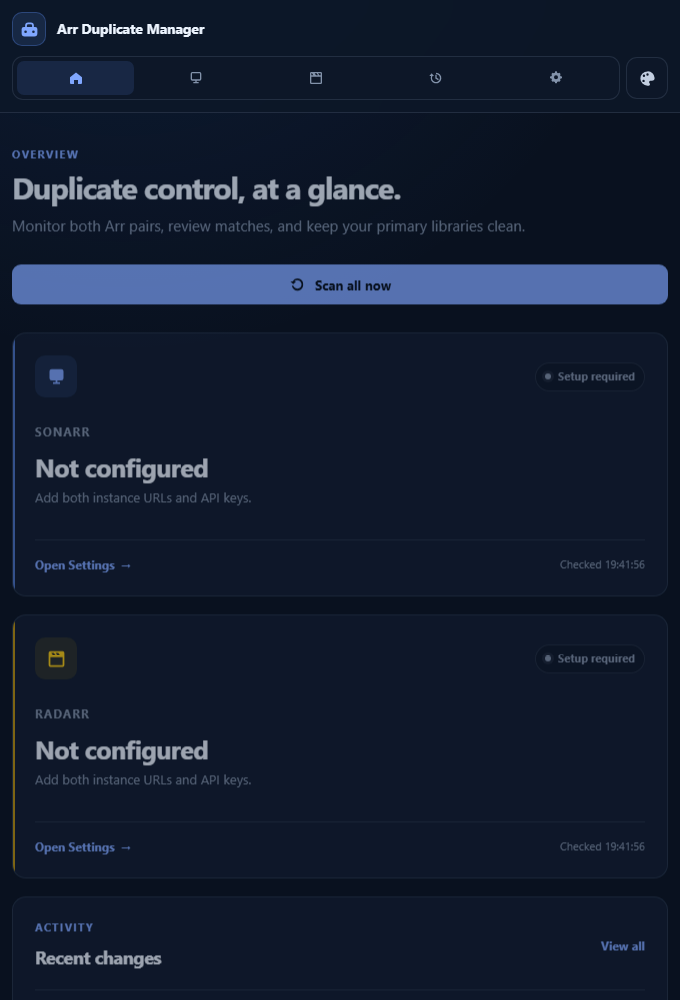
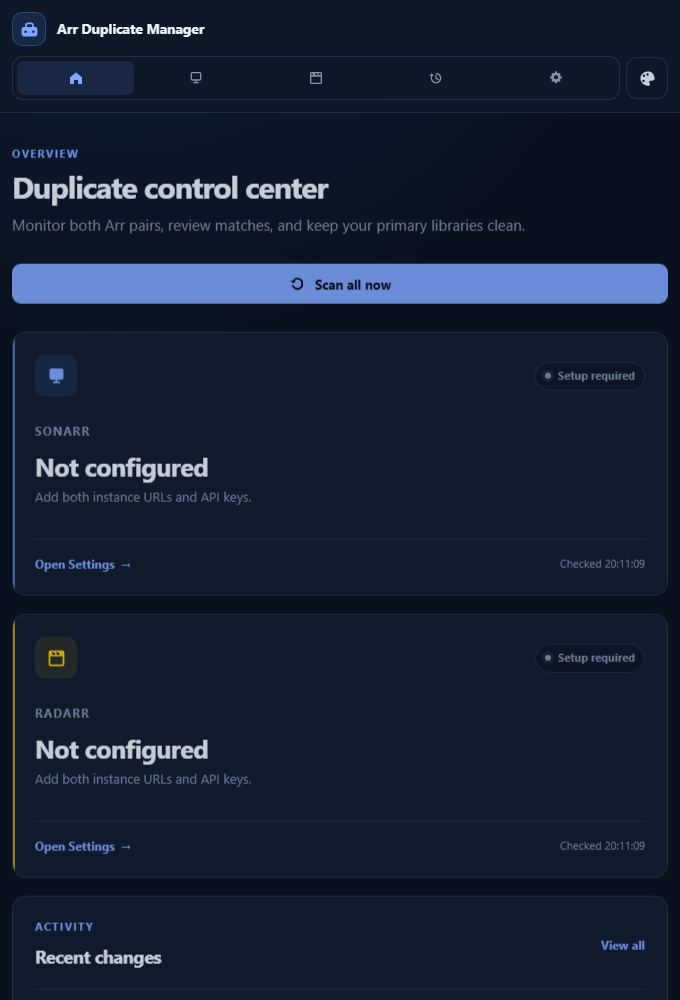
Rename dashboard heading to control center

diff --git a/templates/home.html b/templates/home.html
@@ -2,7 +2,7 @@
     <div class="hero-row">
         <div>
             <span class="eyebrow">Overview</span>
-            <h1>Duplicate control, at a glance.</h1>
+            <h1>Duplicate control center</h1>
             <p>Monitor both Arr pairs, review matches, and keep your primary libraries clean.</p>
         </div>
         <button type="button" class="button button-primary scan-button" hx-get="/dashboard-data" hx-target="#dashboard-grid" hx-swap="innerHTML" hx-indicator="#scan-spinner" hx-disabled-elt="this">